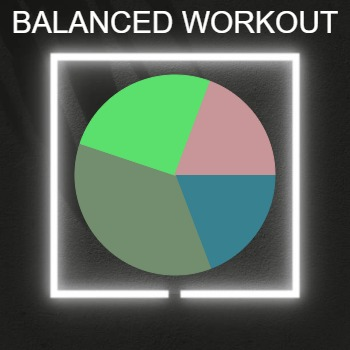
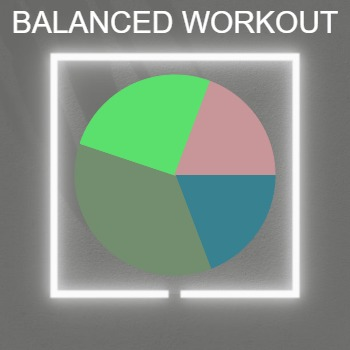
Add update opacity editor when loading new files

diff --git a/js/services/my-gallery.service.js b/js/services/my-gallery.service.js
@@ -5,10 +5,10 @@ const GALLERY_CHARTS = []
 function renderGalleryCharts(){
     const galleryTermsArr = getGalleryTerms()
 
-    const galleryChart1 = _createChart('rect', 'Life', '.math' ,'units', galleryTermsArr[0])
-    const galleryChart2 = _createChart('circle', 'Favorite Movies', '.flower','percent', galleryTermsArr[1])
-    const galleryChart3 = _createChart('pie', 'Balanced Workout', '.black','units', galleryTermsArr[2])
-    const galleryChart4 = _createChart('line', 'Best Cities', '.math','percent', galleryTermsArr[3])
+    const galleryChart1 = _createChart('rect', 'Life', '.math' ,'units',1, galleryTermsArr[0])
+    const galleryChart2 = _createChart('circle', 'Favorite Movies', '.flower','percent',0.6, galleryTermsArr[1])
+    const galleryChart3 = _createChart('pie', 'Balanced Workout', '.black','units',0.4, galleryTermsArr[2])
+    const galleryChart4 = _createChart('line', 'Best Cities', '.math','percent',1, galleryTermsArr[3])
 
     GALLERY_CHARTS.push(galleryChart1)
     GALLERY_CHARTS.push(galleryChart2)

diff --git a/js/backgrounds.controller.js b/js/backgrounds.controller.js
@@ -24,9 +24,7 @@ function onSelectImg(elBackgroundImg, backgroundName) {
     gChart.backgroundName = backgroundName
 
     const elOpacity = document.querySelector('.opacity-input')
-    gChart.opacity = elOpacity.value
-
-   
+    gChart.opacity = elOpacity.value 
 }
 
 function coverCanvasWithImg(elImg) {
@@ -53,6 +51,11 @@ function onOpacityChange(opacity){
     const {backgroundName} = gChart
     if(!backgroundName) return
     gChart.opacity = opacity
-    
     renderBackground(backgroundName)
+}
+
+function updateOpacityEditor(){
+    const {opacity} = gChart
+    const elOpacityInput = document.querySelector('.opacity-input')
+    elOpacityInput.value = opacity
 }

diff --git a/js/services/chart.service.js b/js/services/chart.service.js
@@ -72,12 +72,13 @@ function _createTerm(name='', value=getRandomInt(10, 300), color= getRandomColor
     }
 }
 
-function _createChart(theme='', title = 'Title', backgroundName='', valueType='percent', terms= [_createTerm(),_createTerm()]) {
+function _createChart(theme='', title = 'Title', backgroundName='', valueType='percent', opacity = 1, terms= [_createTerm(),_createTerm()]) {
     return {
         theme,
         title,
         backgroundName,
         valueType,
+        opacity,
         terms
     }
 }

diff --git a/js/chart.controller.js b/js/chart.controller.js
@@ -8,6 +8,7 @@ function onInit() {
     renderBackgroundImgs()
     renderGalleryCharts()
     renderGalleryImgs()
+    updateOpacityEditor()
     MY_CHARTS.forEach(chart => chart.background = '')
     gElCanvas = document.querySelector('canvas')
 	gCtx = gElCanvas.getContext('2d')
@@ -29,6 +30,7 @@ function onReset(){
     elGalleryImgs.forEach(chart => chart.classList.remove('clicked'))
     
     gChart = _createChart()
+    updateOpacityEditor()
     renderEditor()
 }
 

diff --git a/js/services/canvas.service.js b/js/services/canvas.service.js
@@ -323,6 +323,7 @@ function closeModal() {
 
 function write(str, backgroundName, pos = {x:175, y:10}){
     gCtx.font = '30px Arial'
+    if(str.length > 18) gCtx.font = '25px Arial'
     gCtx.textAlign = 'center'
 	gCtx.textBaseline = 'top'
 

diff --git a/js/my-gallery.controller.js b/js/my-gallery.controller.js
@@ -41,5 +41,6 @@ function onSelectGalleryChart(elGalleryImg, idx, backgroundName=''){
     drawChart()
     // write(title, backgroundName)
     renderEditor()
+    updateOpacityEditor()
     updateChartTypeEditor()
 }

diff --git a/js/my-charts.controller.js b/js/my-charts.controller.js
@@ -48,6 +48,7 @@ function onOpenSavedChart(idx){
     
     drawChart()
     renderEditor()
+    updateOpacityEditor()
     updateChartTypeEditor() 
 }
 
